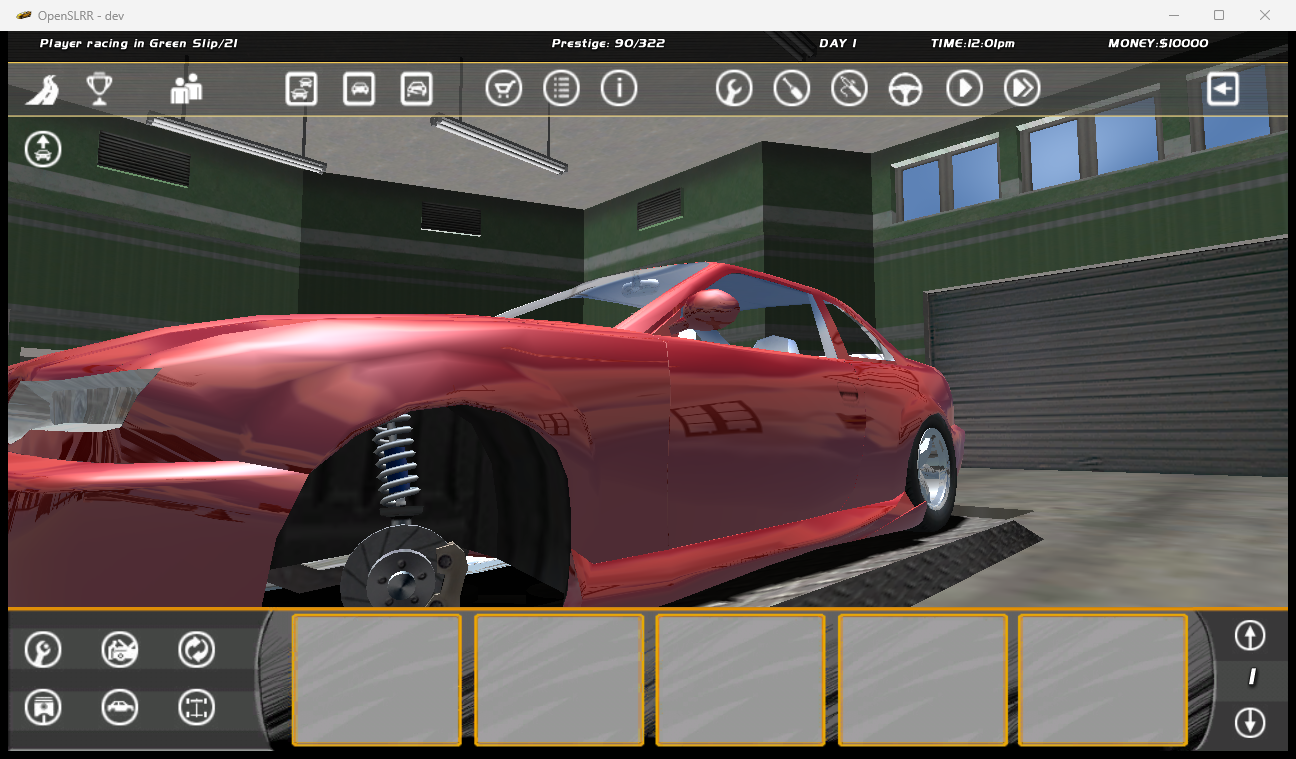
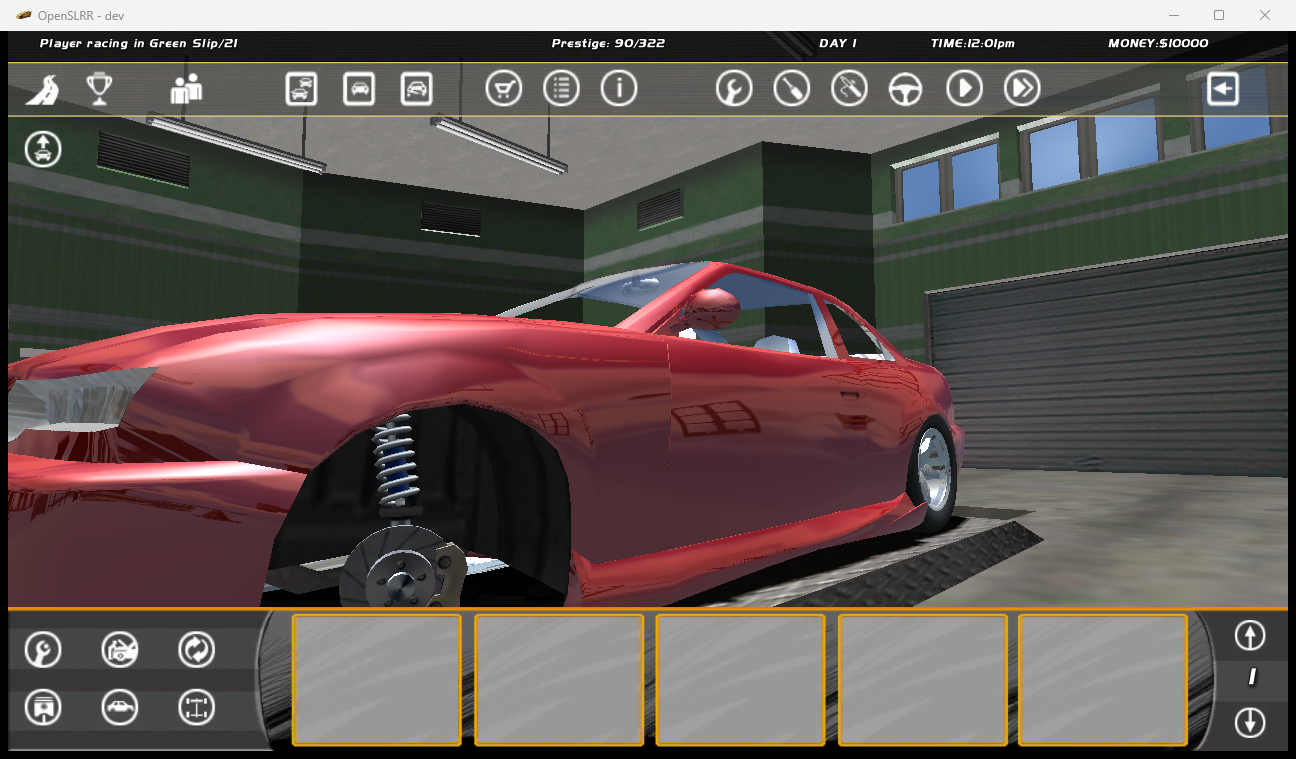
Refresh validation evidence for issue #37

diff --git a/README.md b/README.md
@@ -1,5 +1,7 @@
 Validation evidence for the fix of issue #37 (agent branch agent/fix-garage-wheel-collision-f4fd29d6686a). Not product code.
 
-- before-rim-removed.png: baseline 60b143e, garage, stock Baiern (cars/racers/Baiern.rpk:0x6), front-left rim removed.
-- after-rim-removed.png: fix branch, same scenario, camera and timing.
-- validation-only.patch: the temporary instrumentation used (part_runtime.cpp, env SLRR_VALIDATE_WHEEL*, SLRR_VALIDATE_CAM).
+Garage, front-left rim removed, same camera, timing and window size per car:
+- before-rim-removed.png / after-rim-removed.png: stock Baiern (cars/racers/Baiern.rpk:0x6). Baseline 60b143e vs fix.
+- superduty-before-rim-removed.png / superduty-after-rim-removed.png: Hauler's SuperDuty (cars/racers/SuperDuty.rpk:0x6).
+- superduty-after-rear-rim-removed.png: SuperDuty with a rear inner rim removed; the outer dually wheel carries the corner.
+- validation-only.patch: the temporary instrumentation (part_runtime.cpp, env SLRR_VALIDATE_WHEEL*, SLRR_VALIDATE_CAM).
